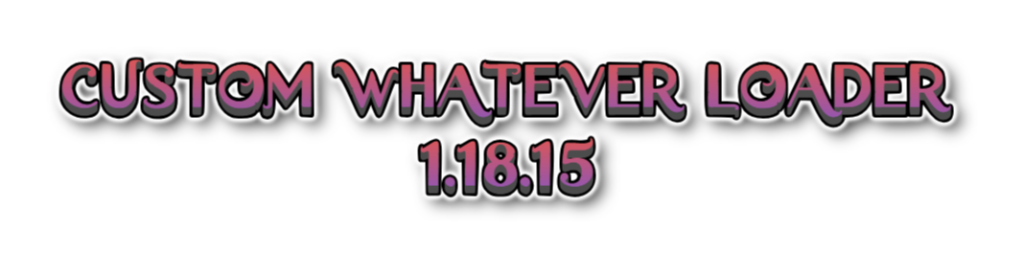
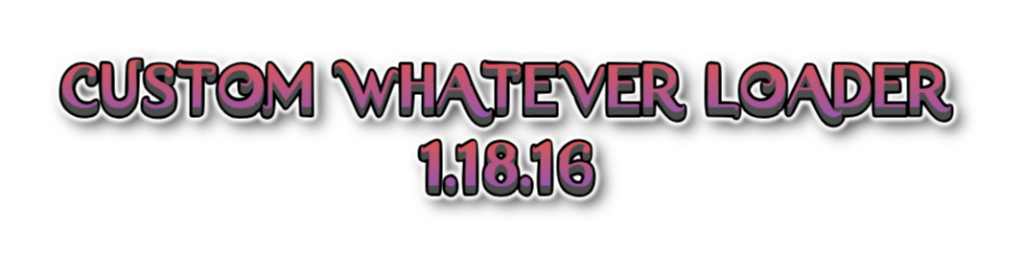
fix(CWL): safe query events

Changed region(s): [[0.4062, 0.5075, 0.5938, 0.7463]]

diff --git a/CustomWhateverLoader/API/Processors/GameIOProcessor.cs b/CustomWhateverLoader/API/Processors/GameIOProcessor.cs
@@ -91,17 +91,21 @@ public class GameIOProcessor
             .Where(mi => mi.IsStatic && !mi.IsGenericMethod);
 
         foreach (var method in methods) {
-            foreach (var attr in method.GetCustomAttributes<CwlGameIOEvent>(true)) {
-                var (save, post) = attr switch {
-                    CwlPreLoad => (false, false),
-                    CwlPostLoad => (false, true),
-                    CwlPreSave => (true, false),
-                    CwlPostSave => (true, true),
-                    _ => throw new NotImplementedException(attr.GetType().Name),
-                };
+            try {
+                foreach (var attr in method.GetCustomAttributes<CwlGameIOEvent>(true)) {
+                    var (save, post) = attr switch {
+                        CwlPreLoad => (false, false),
+                        CwlPostLoad => (false, true),
+                        CwlPreSave => (true, false),
+                        CwlPostSave => (true, true),
+                        _ => throw new NotImplementedException(attr.GetType().Name),
+                    };
 
-                Add(ctx => method.FastInvokeStatic(ctx), save, post);
-                CwlMod.Log<GameIOProcess>($"added process {method.Name}");
+                    Add(ctx => method.FastInvokeStatic(ctx), save, post);
+                    CwlMod.Log<GameIOProcess>($"added process {method.Name}");
+                }
+            } catch {
+                // noexcept
             }
         }
     }

diff --git a/CustomWhateverLoader/Helper/Unity/ProgressIndicator.cs b/CustomWhateverLoader/Helper/Unity/ProgressIndicator.cs
@@ -61,6 +61,7 @@ public class ProgressIndicator : EMono
         return scopedExit;
     }
 
+    [SwallowExceptions]
     private IEnumerator DeferredKill(PopItemText pop, Func<UpdateInfo> onUpdate, float linger)
     {
         Sync(pop, onUpdate());
@@ -70,8 +71,8 @@ public class ProgressIndicator : EMono
         pop.important = false;
         _updater = null;
 
-        ui.popSystem.Kill(pop);
         ui.popSystem.maxLines--;
+        ui.popSystem.Kill(pop);
     }
 
     private static void Sync(PopItemText pop, UpdateInfo info)

diff --git a/CustomWhateverLoader/Loader/CustomWhateverLoader.cs b/CustomWhateverLoader/Loader/CustomWhateverLoader.cs
@@ -8,7 +8,7 @@ public static class ModInfo
     // for legacy reason
     public const string Guid = "dk.elinplugins.customdialogloader";
     public const string Name = "Custom Whatever Loader";
-    public const string Version = "1.18.15";
+    public const string Version = "1.18.16";
 }
 
 [BepInPlugin(ModInfo.Guid, ModInfo.Name, ModInfo.Version)]

diff --git a/CustomWhateverLoader/Loader/CwlStartTask.cs b/CustomWhateverLoader/Loader/CwlStartTask.cs
@@ -82,6 +82,7 @@ internal sealed partial class CwlMod
 
         QueryDeclTypes();
         GameIOProcessor.RegisterEvents();
+        
         StartCoroutine(LoadTask());
     }
 
